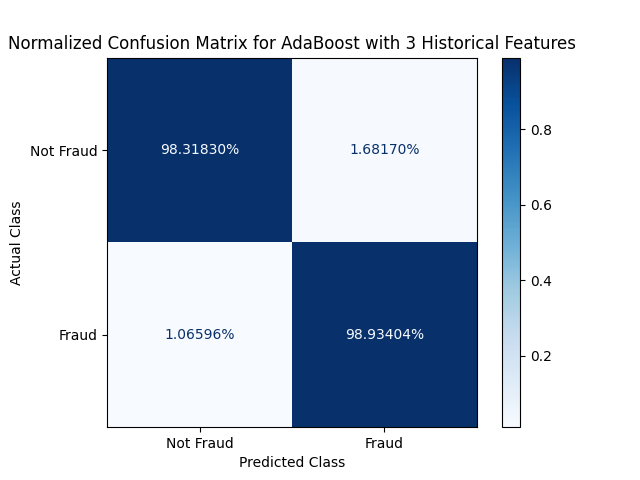
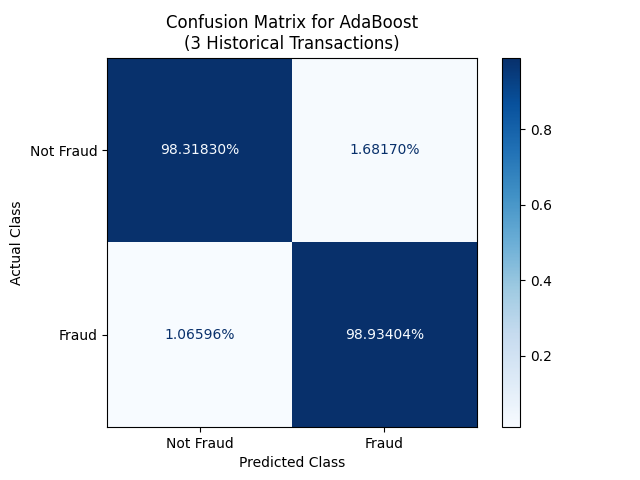
Updating images

Changed region(s): [[0.0, 0.0312, 0.9062, 0.125]]

diff --git a/model_with_history/model_evaluation_historical.py b/model_with_history/model_evaluation_historical.py
@@ -132,7 +132,7 @@ for index, dataset in datasetList.items():
             disp.plot(cmap='Blues', values_format=".5%")
             disp.ax_.set_xlabel("Predicted Class")
             disp.ax_.set_ylabel("Actual Class")
-            plt.title(f"Normalized Confusion Matrix for {model_title} with {index} Historical Features")
+            plt.title(f"Confusion Matrix for {model_title}\n({index} Historical Transactions)") 
             plt.savefig(f"{folder}/Confusion Matrix - {model_title} - {index} Historical Features.png")
             plt.clf()
             plt.close()
